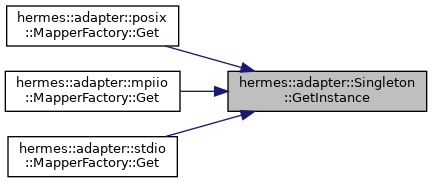
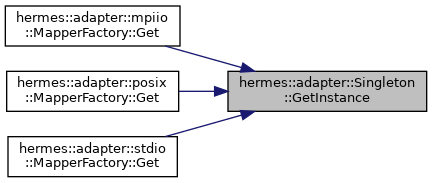
deploy: 3d532630f3a27ce48441958d09a7bc5f46991d04

Changed region(s): [[0.0, 0.3825, 0.4213, 0.6011], [0.0, 0.0273, 0.4213, 0.2459]]

diff --git a/html/posix_2mapper_2mapper__factory_8h_source.html b/html/posix_2mapper_2mapper__factory_8h_source.html
@@ -108,29 +108,29 @@ $(document).ready(function(){initNavTree('posix_2mapper_2mapper__factory_8h_sour
 <div class="line"><a name="l00019"></a><span class="lineno">   19</span>&#160;<span class="preprocessor">#include &quot;singleton.h&quot;</span></div>
 <div class="line"><a name="l00020"></a><span class="lineno">   20</span>&#160; </div>
 <div class="line"><a name="l00021"></a><span class="lineno">   21</span>&#160;<span class="keyword">namespace </span><a class="code" href="namespacehermes_1_1adapter_1_1posix.html">hermes::adapter::posix</a> {</div>
-<div class="line"><a name="l00022"></a><span class="lineno"><a class="line" href="classhermes_1_1adapter_1_1posix_1_1_mapper_factory.html">   22</a></span>&#160;<span class="keyword">class </span><a class="code" href="classhermes_1_1adapter_1_1posix_1_1_mapper_factory.html">MapperFactory</a> {</div>
-<div class="line"><a name="l00023"></a><span class="lineno">   23</span>&#160; <span class="keyword">public</span>:</div>
-<div class="line"><a name="l00030"></a><span class="lineno"><a class="line" href="classhermes_1_1adapter_1_1posix_1_1_mapper_factory.html#a9054045e55f3344d3011411fa3e76bb6">   30</a></span>&#160;  std::shared_ptr&lt;AbstractMapper&gt; <a class="code" href="classhermes_1_1adapter_1_1posix_1_1_mapper_factory.html#a9054045e55f3344d3011411fa3e76bb6">Get</a>(<span class="keyword">const</span> <a class="code" href="namespacehermes_1_1adapter_1_1posix.html#a8080810720ab1e993c5e7ba7bb3a05e3">MapperType</a> &amp;type) {</div>
-<div class="line"><a name="l00031"></a><span class="lineno">   31</span>&#160;    <span class="keywordflow">switch</span> (type) {</div>
-<div class="line"><a name="l00032"></a><span class="lineno">   32</span>&#160;      <span class="keywordflow">case</span> MapperType::BALANCED: {</div>
-<div class="line"><a name="l00033"></a><span class="lineno">   33</span>&#160;        <span class="keywordflow">return</span> <a class="code" href="classhermes_1_1adapter_1_1_singleton.html#a7628ad540d84a0e62635e0e3f2f71ad6">hermes::adapter::Singleton&lt;BalancedMapper&gt;::GetInstance</a>();</div>
-<div class="line"><a name="l00034"></a><span class="lineno">   34</span>&#160;      }</div>
-<div class="line"><a name="l00035"></a><span class="lineno">   35</span>&#160;      <span class="keywordflow">default</span>: {</div>
-<div class="line"><a name="l00036"></a><span class="lineno">   36</span>&#160;        <span class="comment">// TODO(hari): @error_handling Mapper not implemented</span></div>
+<div class="line"><a name="l00025"></a><span class="lineno"><a class="line" href="classhermes_1_1adapter_1_1posix_1_1_mapper_factory.html">   25</a></span>&#160;<span class="keyword">class </span><a class="code" href="classhermes_1_1adapter_1_1posix_1_1_mapper_factory.html">MapperFactory</a> {</div>
+<div class="line"><a name="l00026"></a><span class="lineno">   26</span>&#160; <span class="keyword">public</span>:</div>
+<div class="line"><a name="l00033"></a><span class="lineno"><a class="line" href="classhermes_1_1adapter_1_1posix_1_1_mapper_factory.html#a9054045e55f3344d3011411fa3e76bb6">   33</a></span>&#160;  std::shared_ptr&lt;AbstractMapper&gt; <a class="code" href="classhermes_1_1adapter_1_1posix_1_1_mapper_factory.html#a9054045e55f3344d3011411fa3e76bb6">Get</a>(<span class="keyword">const</span> <a class="code" href="namespacehermes_1_1adapter_1_1posix.html#a8080810720ab1e993c5e7ba7bb3a05e3">MapperType</a> &amp;type) {</div>
+<div class="line"><a name="l00034"></a><span class="lineno">   34</span>&#160;    <span class="keywordflow">switch</span> (type) {</div>
+<div class="line"><a name="l00035"></a><span class="lineno">   35</span>&#160;      <span class="keywordflow">case</span> MapperType::BALANCED: {</div>
+<div class="line"><a name="l00036"></a><span class="lineno">   36</span>&#160;        <span class="keywordflow">return</span> <a class="code" href="classhermes_1_1adapter_1_1_singleton.html#a7628ad540d84a0e62635e0e3f2f71ad6">hermes::adapter::Singleton&lt;BalancedMapper&gt;::GetInstance</a>();</div>
 <div class="line"><a name="l00037"></a><span class="lineno">   37</span>&#160;      }</div>
-<div class="line"><a name="l00038"></a><span class="lineno">   38</span>&#160;    }</div>
-<div class="line"><a name="l00039"></a><span class="lineno">   39</span>&#160;    <span class="keywordflow">return</span> NULL;</div>
-<div class="line"><a name="l00040"></a><span class="lineno">   40</span>&#160;  }</div>
-<div class="line"><a name="l00041"></a><span class="lineno">   41</span>&#160;};</div>
-<div class="line"><a name="l00042"></a><span class="lineno">   42</span>&#160;}  <span class="comment">// namespace hermes::adapter::posix</span></div>
-<div class="line"><a name="l00043"></a><span class="lineno">   43</span>&#160;<span class="preprocessor">#endif  // HERMES_ADAPTER_FACTORY_H</span></div>
+<div class="line"><a name="l00038"></a><span class="lineno">   38</span>&#160;      <span class="keywordflow">default</span>: {</div>
+<div class="line"><a name="l00039"></a><span class="lineno">   39</span>&#160;        <span class="comment">// TODO(hari): @error_handling Mapper not implemented</span></div>
+<div class="line"><a name="l00040"></a><span class="lineno">   40</span>&#160;      }</div>
+<div class="line"><a name="l00041"></a><span class="lineno">   41</span>&#160;    }</div>
+<div class="line"><a name="l00042"></a><span class="lineno">   42</span>&#160;    <span class="keywordflow">return</span> NULL;</div>
+<div class="line"><a name="l00043"></a><span class="lineno">   43</span>&#160;  }</div>
+<div class="line"><a name="l00044"></a><span class="lineno">   44</span>&#160;};</div>
+<div class="line"><a name="l00045"></a><span class="lineno">   45</span>&#160;}  <span class="comment">// namespace hermes::adapter::posix</span></div>
+<div class="line"><a name="l00046"></a><span class="lineno">   46</span>&#160;<span class="preprocessor">#endif  // HERMES_ADAPTER_FACTORY_H</span></div>
 </div><!-- fragment --></div><!-- contents -->
 </div><!-- doc-content -->
 <div class="ttc" id="anamespacehermes_1_1adapter_1_1posix_html_a8080810720ab1e993c5e7ba7bb3a05e3"><div class="ttname"><a href="namespacehermes_1_1adapter_1_1posix.html#a8080810720ab1e993c5e7ba7bb3a05e3">hermes::adapter::posix::MapperType</a></div><div class="ttdeci">MapperType</div><div class="ttdef"><b>Definition:</b> enumerations.h:23</div></div>
-<div class="ttc" id="aclasshermes_1_1adapter_1_1posix_1_1_mapper_factory_html_a9054045e55f3344d3011411fa3e76bb6"><div class="ttname"><a href="classhermes_1_1adapter_1_1posix_1_1_mapper_factory.html#a9054045e55f3344d3011411fa3e76bb6">hermes::adapter::posix::MapperFactory::Get</a></div><div class="ttdeci">std::shared_ptr&lt; AbstractMapper &gt; Get(const MapperType &amp;type)</div><div class="ttdef"><b>Definition:</b> mapper_factory.h:30</div></div>
+<div class="ttc" id="aclasshermes_1_1adapter_1_1posix_1_1_mapper_factory_html_a9054045e55f3344d3011411fa3e76bb6"><div class="ttname"><a href="classhermes_1_1adapter_1_1posix_1_1_mapper_factory.html#a9054045e55f3344d3011411fa3e76bb6">hermes::adapter::posix::MapperFactory::Get</a></div><div class="ttdeci">std::shared_ptr&lt; AbstractMapper &gt; Get(const MapperType &amp;type)</div><div class="ttdef"><b>Definition:</b> mapper_factory.h:33</div></div>
 <div class="ttc" id="aclasshermes_1_1adapter_1_1_singleton_html_a7628ad540d84a0e62635e0e3f2f71ad6"><div class="ttname"><a href="classhermes_1_1adapter_1_1_singleton.html#a7628ad540d84a0e62635e0e3f2f71ad6">hermes::adapter::Singleton::GetInstance</a></div><div class="ttdeci">static std::shared_ptr&lt; T &gt; GetInstance(Args... args)</div><div class="ttdef"><b>Definition:</b> singleton.h:37</div></div>
 <div class="ttc" id="anamespacehermes_1_1adapter_1_1posix_html"><div class="ttname"><a href="namespacehermes_1_1adapter_1_1posix.html">hermes::adapter::posix</a></div><div class="ttdef"><b>Definition:</b> datastructures.h:40</div></div>
-<div class="ttc" id="aclasshermes_1_1adapter_1_1posix_1_1_mapper_factory_html"><div class="ttname"><a href="classhermes_1_1adapter_1_1posix_1_1_mapper_factory.html">hermes::adapter::posix::MapperFactory</a></div><div class="ttdef"><b>Definition:</b> mapper_factory.h:22</div></div>
+<div class="ttc" id="aclasshermes_1_1adapter_1_1posix_1_1_mapper_factory_html"><div class="ttname"><a href="classhermes_1_1adapter_1_1posix_1_1_mapper_factory.html">hermes::adapter::posix::MapperFactory</a></div><div class="ttdef"><b>Definition:</b> mapper_factory.h:25</div></div>
 <!-- start footer part -->
 <div id="nav-path" class="navpath"><!-- id is needed for treeview function! -->
   <ul>

diff --git a/html/posix_8h_source.html b/html/posix_8h_source.html
@@ -160,7 +160,7 @@ $(document).ready(function(){initNavTree('posix_8h_source.html',''); initResizab
 <div class="ttc" id="astructhermes_1_1api_1_1_context_html"><div class="ttname"><a href="structhermes_1_1api_1_1_context.html">hermes::api::Context</a></div><div class="ttdef"><b>Definition:</b> hermes_types.h:119</div></div>
 <div class="ttc" id="ahermes_8h_html"><div class="ttname"><a href="hermes_8h.html">hermes.h</a></div></div>
 <div class="ttc" id="aclasshermes_1_1adapter_1_1posix_1_1_metadata_manager_html"><div class="ttname"><a href="classhermes_1_1adapter_1_1posix_1_1_metadata_manager.html">hermes::adapter::posix::MetadataManager</a></div><div class="ttdef"><b>Definition:</b> metadata_manager.h:32</div></div>
-<div class="ttc" id="aclasshermes_1_1adapter_1_1posix_1_1_mapper_factory_html_a9054045e55f3344d3011411fa3e76bb6"><div class="ttname"><a href="classhermes_1_1adapter_1_1posix_1_1_mapper_factory.html#a9054045e55f3344d3011411fa3e76bb6">hermes::adapter::posix::MapperFactory::Get</a></div><div class="ttdeci">std::shared_ptr&lt; AbstractMapper &gt; Get(const MapperType &amp;type)</div><div class="ttdef"><b>Definition:</b> mapper_factory.h:30</div></div>
+<div class="ttc" id="aclasshermes_1_1adapter_1_1posix_1_1_mapper_factory_html_a9054045e55f3344d3011411fa3e76bb6"><div class="ttname"><a href="classhermes_1_1adapter_1_1posix_1_1_mapper_factory.html#a9054045e55f3344d3011411fa3e76bb6">hermes::adapter::posix::MapperFactory::Get</a></div><div class="ttdeci">std::shared_ptr&lt; AbstractMapper &gt; Get(const MapperType &amp;type)</div><div class="ttdef"><b>Definition:</b> mapper_factory.h:33</div></div>
 <div class="ttc" id="astructhermes_1_1adapter_1_1posix_1_1_adapter_stat_html_a81b602c19adcb9016dad1f22d9d48636"><div class="ttname"><a href="structhermes_1_1adapter_1_1posix_1_1_adapter_stat.html#a81b602c19adcb9016dad1f22d9d48636">hermes::adapter::posix::AdapterStat::st_bkid</a></div><div class="ttdeci">std::shared_ptr&lt; hapi::Bucket &gt; st_bkid</div><div class="ttdef"><b>Definition:</b> datastructures.h:161</div></div>
 <div class="ttc" id="abucket_8h_html"><div class="ttname"><a href="bucket_8h.html">bucket.h</a></div></div>
 <div class="ttc" id="aclasshermes_1_1adapter_1_1_singleton_html_a7628ad540d84a0e62635e0e3f2f71ad6"><div class="ttname"><a href="classhermes_1_1adapter_1_1_singleton.html#a7628ad540d84a0e62635e0e3f2f71ad6">hermes::adapter::Singleton::GetInstance</a></div><div class="ttdeci">static std::shared_ptr&lt; T &gt; GetInstance(Args... args)</div><div class="ttdef"><b>Definition:</b> singleton.h:37</div></div>
@@ -169,7 +169,7 @@ $(document).ready(function(){initNavTree('posix_8h_source.html',''); initResizab
 <div class="ttc" id="ahermes__types_8h_html_a67dcf64ed55349e6beab0a38e641a389"><div class="ttname"><a href="hermes__types_8h.html#a67dcf64ed55349e6beab0a38e641a389">hermes::u8</a></div><div class="ttdeci">uint8_t u8</div><div class="ttdef"><b>Definition:</b> hermes_types.h:40</div></div>
 <div class="ttc" id="astructhermes_1_1api_1_1_persist_trait_html"><div class="ttname"><a href="structhermes_1_1api_1_1_persist_trait.html">hermes::api::PersistTrait</a></div><div class="ttdoc">Engable persisting a VBucket's linked Blobs to permanent storage.</div><div class="ttdef"><b>Definition:</b> traits.h:89</div></div>
 <div class="ttc" id="astructhermes_1_1adapter_1_1posix_1_1_adapter_stat_html"><div class="ttname"><a href="structhermes_1_1adapter_1_1posix_1_1_adapter_stat.html">hermes::adapter::posix::AdapterStat</a></div><div class="ttdef"><b>Definition:</b> datastructures.h:157</div></div>
-<div class="ttc" id="aclasshermes_1_1adapter_1_1posix_1_1_mapper_factory_html"><div class="ttname"><a href="classhermes_1_1adapter_1_1posix_1_1_mapper_factory.html">hermes::adapter::posix::MapperFactory</a></div><div class="ttdef"><b>Definition:</b> mapper_factory.h:22</div></div>
+<div class="ttc" id="aclasshermes_1_1adapter_1_1posix_1_1_mapper_factory_html"><div class="ttname"><a href="classhermes_1_1adapter_1_1posix_1_1_mapper_factory.html">hermes::adapter::posix::MapperFactory</a></div><div class="ttdef"><b>Definition:</b> mapper_factory.h:25</div></div>
 <!-- start footer part -->
 <div id="nav-path" class="navpath"><!-- id is needed for treeview function! -->
   <ul>

diff --git a/html/classhermes_1_1adapter_1_1posix_1_1_mapper_factory.html b/html/classhermes_1_1adapter_1_1posix_1_1_mapper_factory.html
@@ -90,13 +90,17 @@ $(document).ready(function(){initNavTree('classhermes_1_1adapter_1_1posix_1_1_ma
 <div class="title">hermes::adapter::posix::MapperFactory Class Reference</div>  </div>
 </div><!--header-->
 <div class="contents">
+
+<p><code>#include &lt;<a class="el" href="posix_2mapper_2mapper__factory_8h_source.html">mapper_factory.h</a>&gt;</code></p>
 <table class="memberdecls">
 <tr class="heading"><td colspan="2"><h2 class="groupheader"><a name="pub-methods"></a>
 Public Member Functions</h2></td></tr>
 <tr class="memitem:a9054045e55f3344d3011411fa3e76bb6"><td class="memItemLeft" align="right" valign="top">std::shared_ptr&lt; <a class="el" href="classhermes_1_1adapter_1_1posix_1_1_abstract_mapper.html">AbstractMapper</a> &gt;&#160;</td><td class="memItemRight" valign="bottom"><a class="el" href="classhermes_1_1adapter_1_1posix_1_1_mapper_factory.html#a9054045e55f3344d3011411fa3e76bb6">Get</a> (const <a class="el" href="namespacehermes_1_1adapter_1_1posix.html#a8080810720ab1e993c5e7ba7bb3a05e3">MapperType</a> &amp;type)</td></tr>
 <tr class="separator:a9054045e55f3344d3011411fa3e76bb6"><td class="memSeparator" colspan="2">&#160;</td></tr>
 </table>
-<h2 class="groupheader">Member Function Documentation</h2>
+<a name="details" id="details"></a><h2 class="groupheader">Detailed Description</h2>
+<div class="textblock"><p>A class to represent mapper factory pattern </p>
+</div><h2 class="groupheader">Member Function Documentation</h2>
 <a id="a9054045e55f3344d3011411fa3e76bb6"></a>
 <h2 class="memtitle"><span class="permalink"><a href="#a9054045e55f3344d3011411fa3e76bb6">&#9670;&nbsp;</a></span>Get()</h2>
 
@@ -123,7 +127,7 @@ Public Member Functions</h2></td></tr>
 <p>Return the instance of mapper given a type. Uses factory pattern.</p>
 <dl class="params"><dt>Parameters</dt><dd>
   <table class="params">
-    <tr><td class="paramname">type,MapperType,type</td><td>of mapper to be used by the POSIX adapter. </td></tr>
+    <tr><td class="paramdir">[in]</td><td class="paramname">type</td><td>type of mapper to be used by the POSIX adapter. </td></tr>
   </table>
   </dd>
 </dl>

diff --git a/html/classhermes_1_1adapter_1_1_singleton.html b/html/classhermes_1_1adapter_1_1_singleton.html
@@ -189,8 +189,8 @@ Here is the caller graph for this function:</div>
 <div class="center"><img src="classhermes_1_1adapter_1_1_singleton_a7628ad540d84a0e62635e0e3f2f71ad6_icgraph.png" border="0" usemap="#classhermes_1_1adapter_1_1_singleton_a7628ad540d84a0e62635e0e3f2f71ad6_icgraph" alt=""/></div>
 <map name="classhermes_1_1adapter_1_1_singleton_a7628ad540d84a0e62635e0e3f2f71ad6_icgraph" id="classhermes_1_1adapter_1_1_singleton_a7628ad540d84a0e62635e0e3f2f71ad6_icgraph">
 <area shape="rect" title=" " alt="" coords="228,71,427,112"/>
-<area shape="rect" href="classhermes_1_1adapter_1_1posix_1_1_mapper_factory.html#a9054045e55f3344d3011411fa3e76bb6" title=" " alt="" coords="7,5,179,47"/>
-<area shape="rect" href="classhermes_1_1adapter_1_1mpiio_1_1_mapper_factory.html#ad88702927b2a7549e1d1416d7d0db5e4" title=" " alt="" coords="5,71,180,112"/>
+<area shape="rect" href="classhermes_1_1adapter_1_1mpiio_1_1_mapper_factory.html#ad88702927b2a7549e1d1416d7d0db5e4" title=" " alt="" coords="5,5,180,47"/>
+<area shape="rect" href="classhermes_1_1adapter_1_1posix_1_1_mapper_factory.html#a9054045e55f3344d3011411fa3e76bb6" title=" " alt="" coords="7,71,179,112"/>
 <area shape="rect" href="classhermes_1_1adapter_1_1stdio_1_1_mapper_factory.html#a18dc570603d6d7e583cd66950198d09b" title=" " alt="" coords="8,136,177,177"/>
 </map>
 </div>
